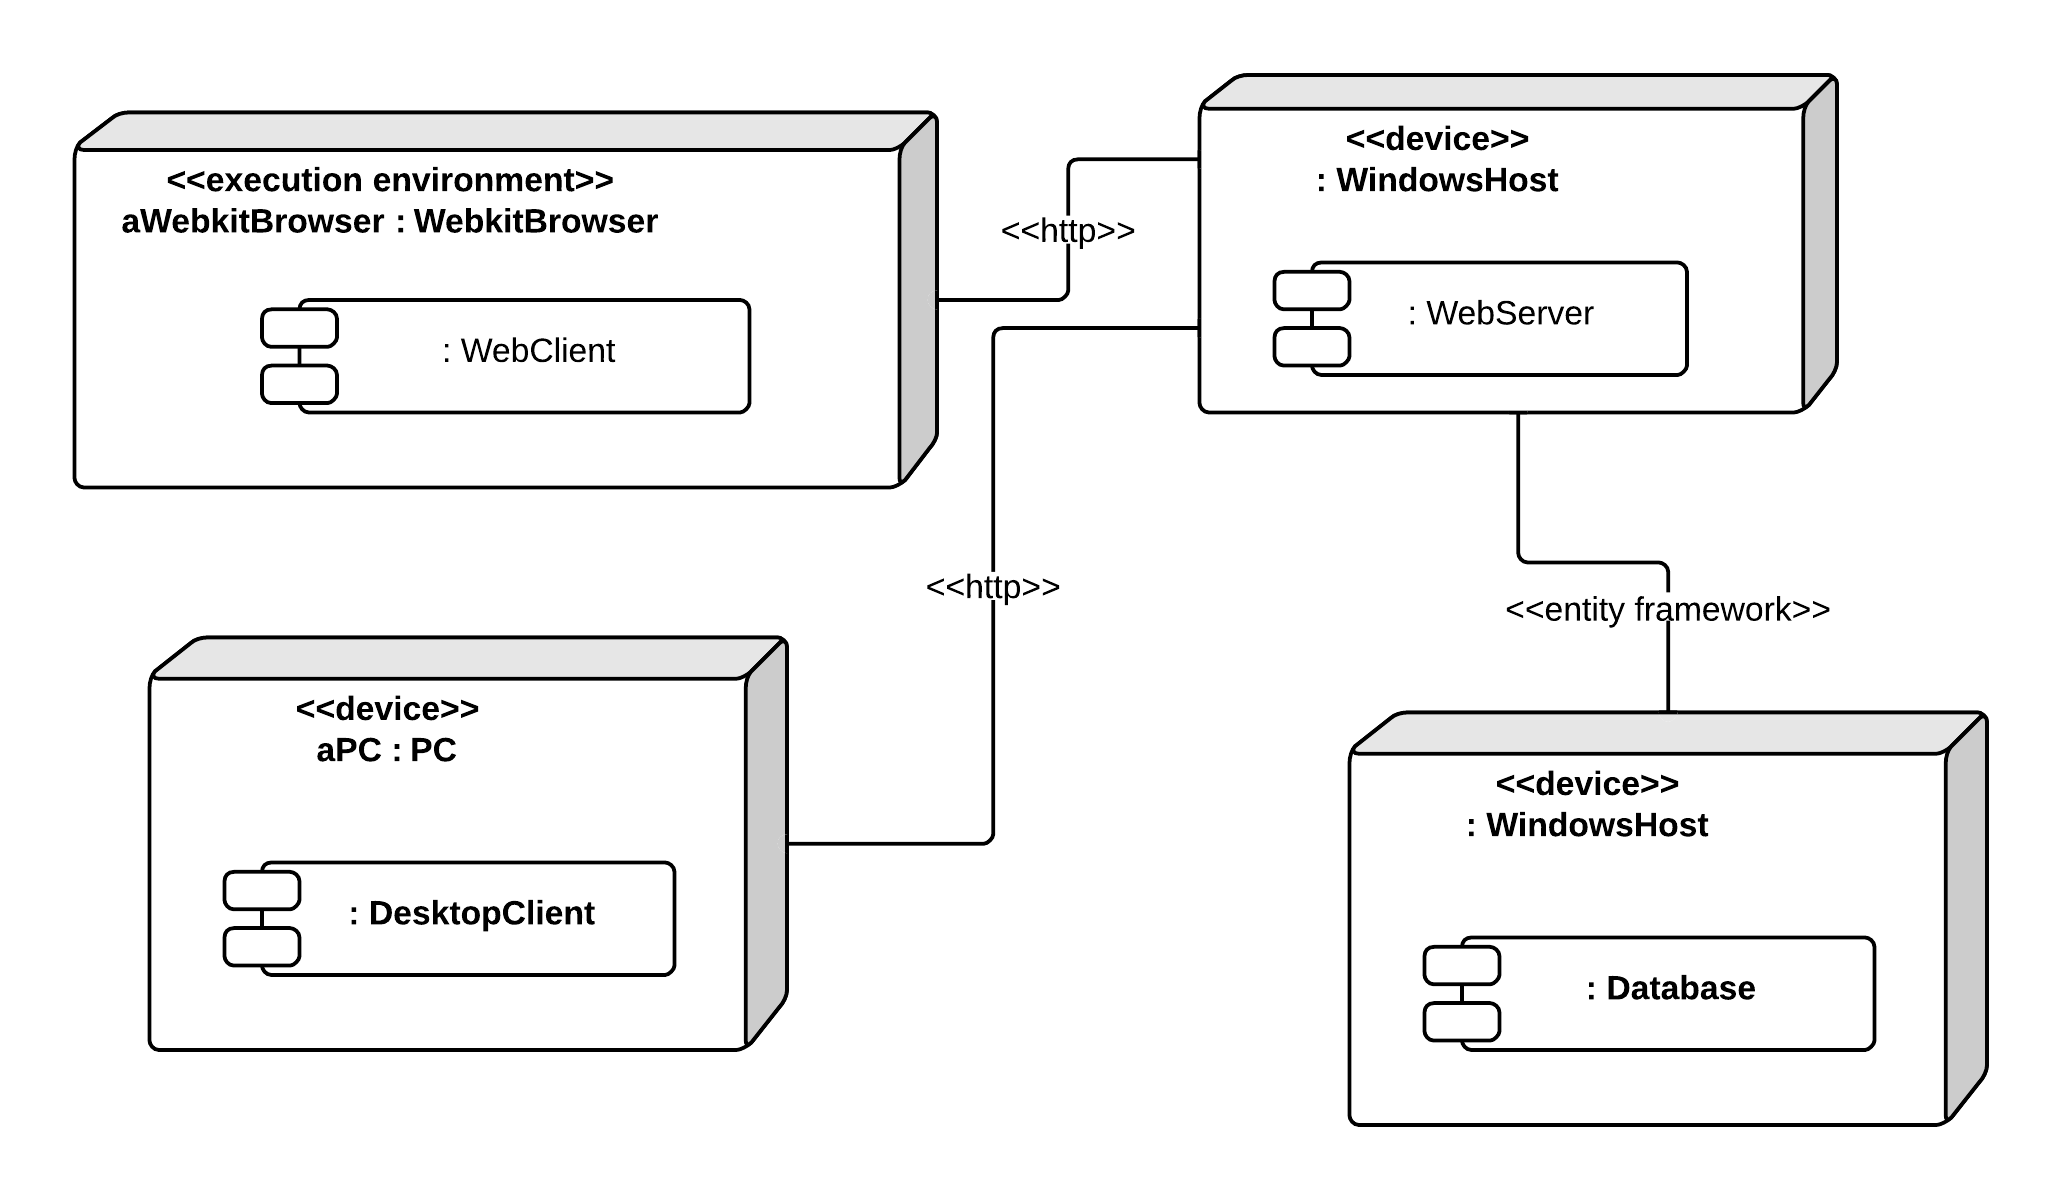
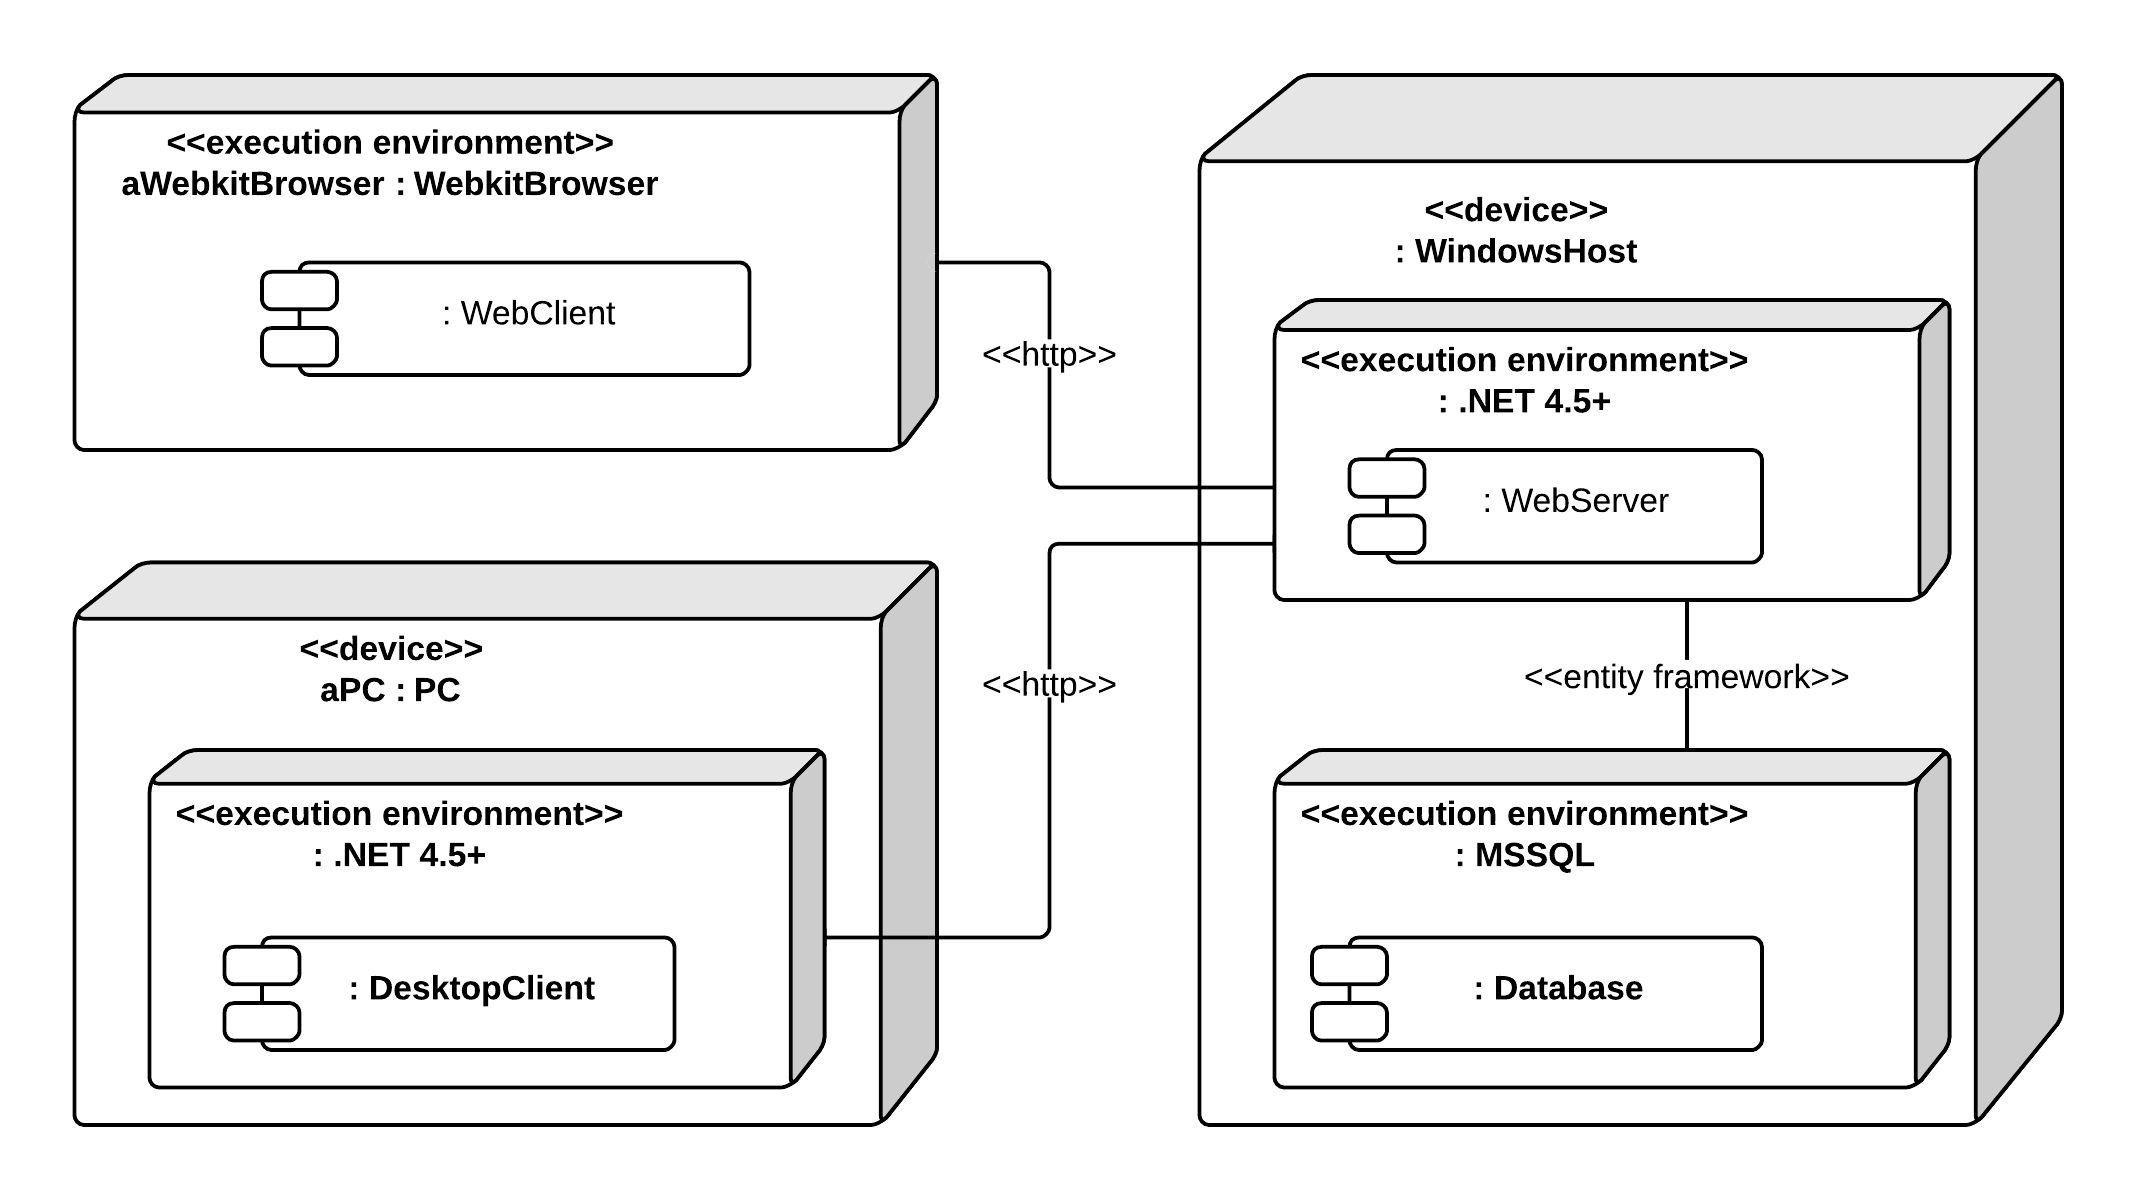
SDD - Hardware/software mapping

Changed region(s): [[0.031, 0.0617, 0.9927, 0.9558]]

diff --git a/Documentation/SDD/proposed_software_architecture.tex b/Documentation/SDD/proposed_software_architecture.tex
@@ -32,12 +32,19 @@ We have grouped our classes into subsystems to create a clearer structure of the
 
 
 \section{Hardware/software mapping}
-
+\label{sec:Hardware/software mapping}
+Below are the generalized components mapped to hardware or software
 \begin{figure}[H]
 \includegraphics[scale=0.2]{img/SoftwareHardwareMapping.png}
 \caption{Software/Hardware Mapping}
 \label{fig:SoftwareHardwareMapping}
 \end{figure}
+
+\begin{itemize}
+\item \textbf{aPC} is the hardware node for our DesktopClient component. The requirement it that it must run on a PC with Windows 7 or 8, utilizing .NET 4.5 or greater
+\item \textbf{aWebkitBrowser} is a software environment implementing WebKit 2 or greater, able to execute our WebClient component. There are no requirements to the hardware platform
+\item \textbf{WindowsHost} is the server hardware node. On it are two execution environments: .NET 4.5 or greater and MSSQL, required for our WebServer and Database components respectively. The components communicate by entity framework which allows for moving an environment and component to another WindowsHost hardware node.
+\end{itemize}
 
 \section{Persistent data management}
 

diff --git a/Documentation/SDD/introduction.tex b/Documentation/SDD/introduction.tex
@@ -11,7 +11,8 @@
     \\ \hline
     1.1.0 & 24/11/2013 & Added purpose of the system and system architecture choice & MIFR
     \\ \hline
-    
+    1.2.0 & 01/12/2013 & Hardware/software mapping section \ref{sec:Hardware/software mapping} done & MKIN
+    \\ \hline
     \end{tabular}
 \end{center}
 
